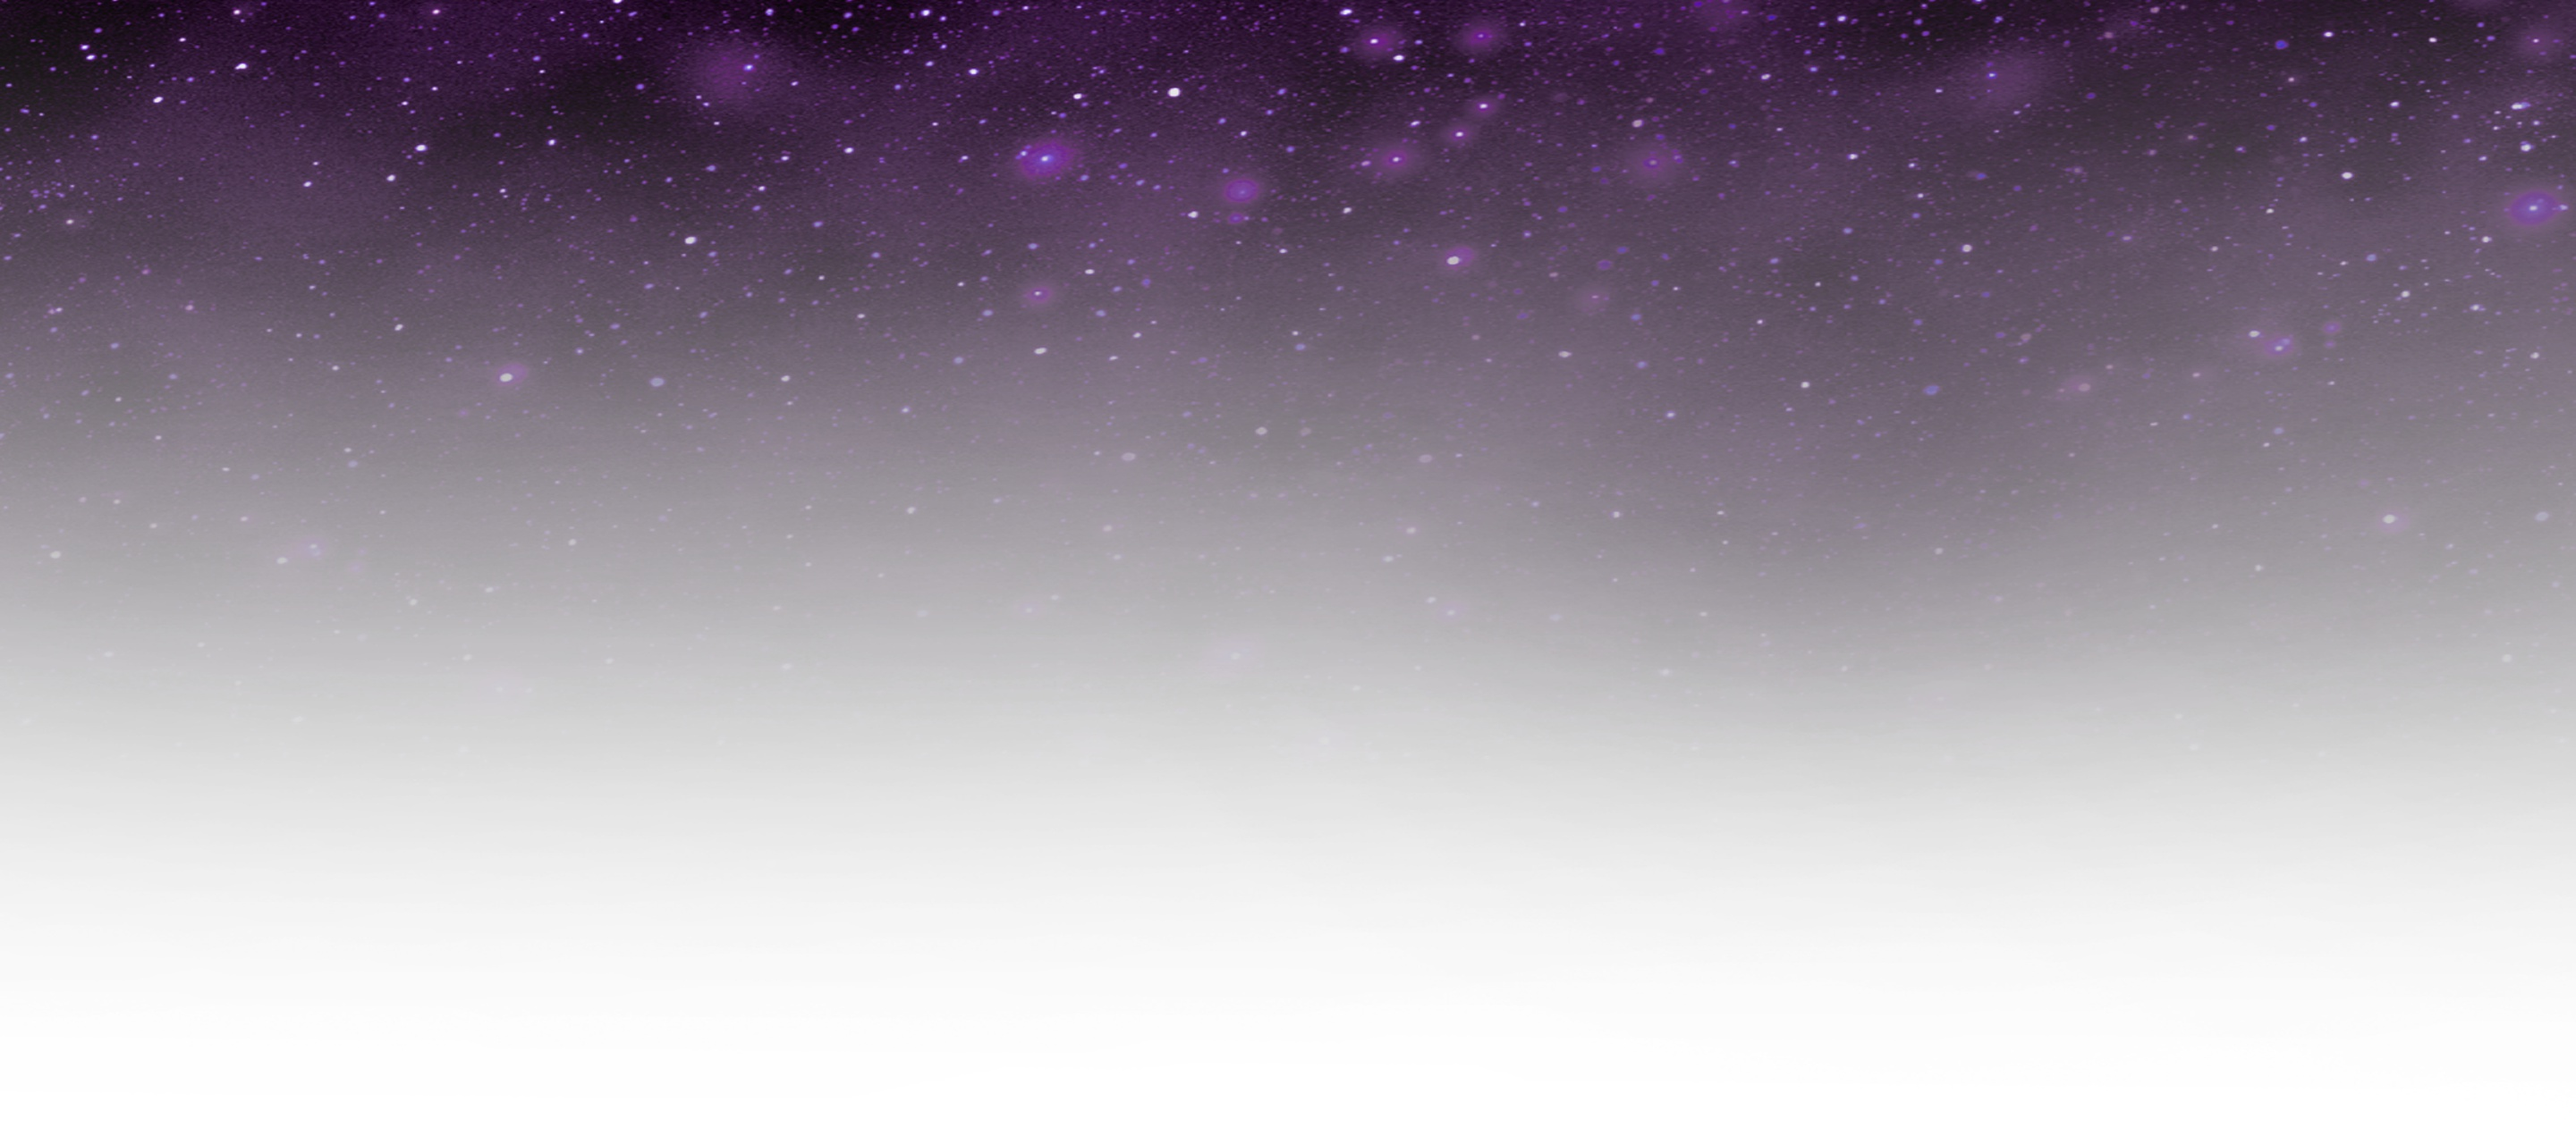
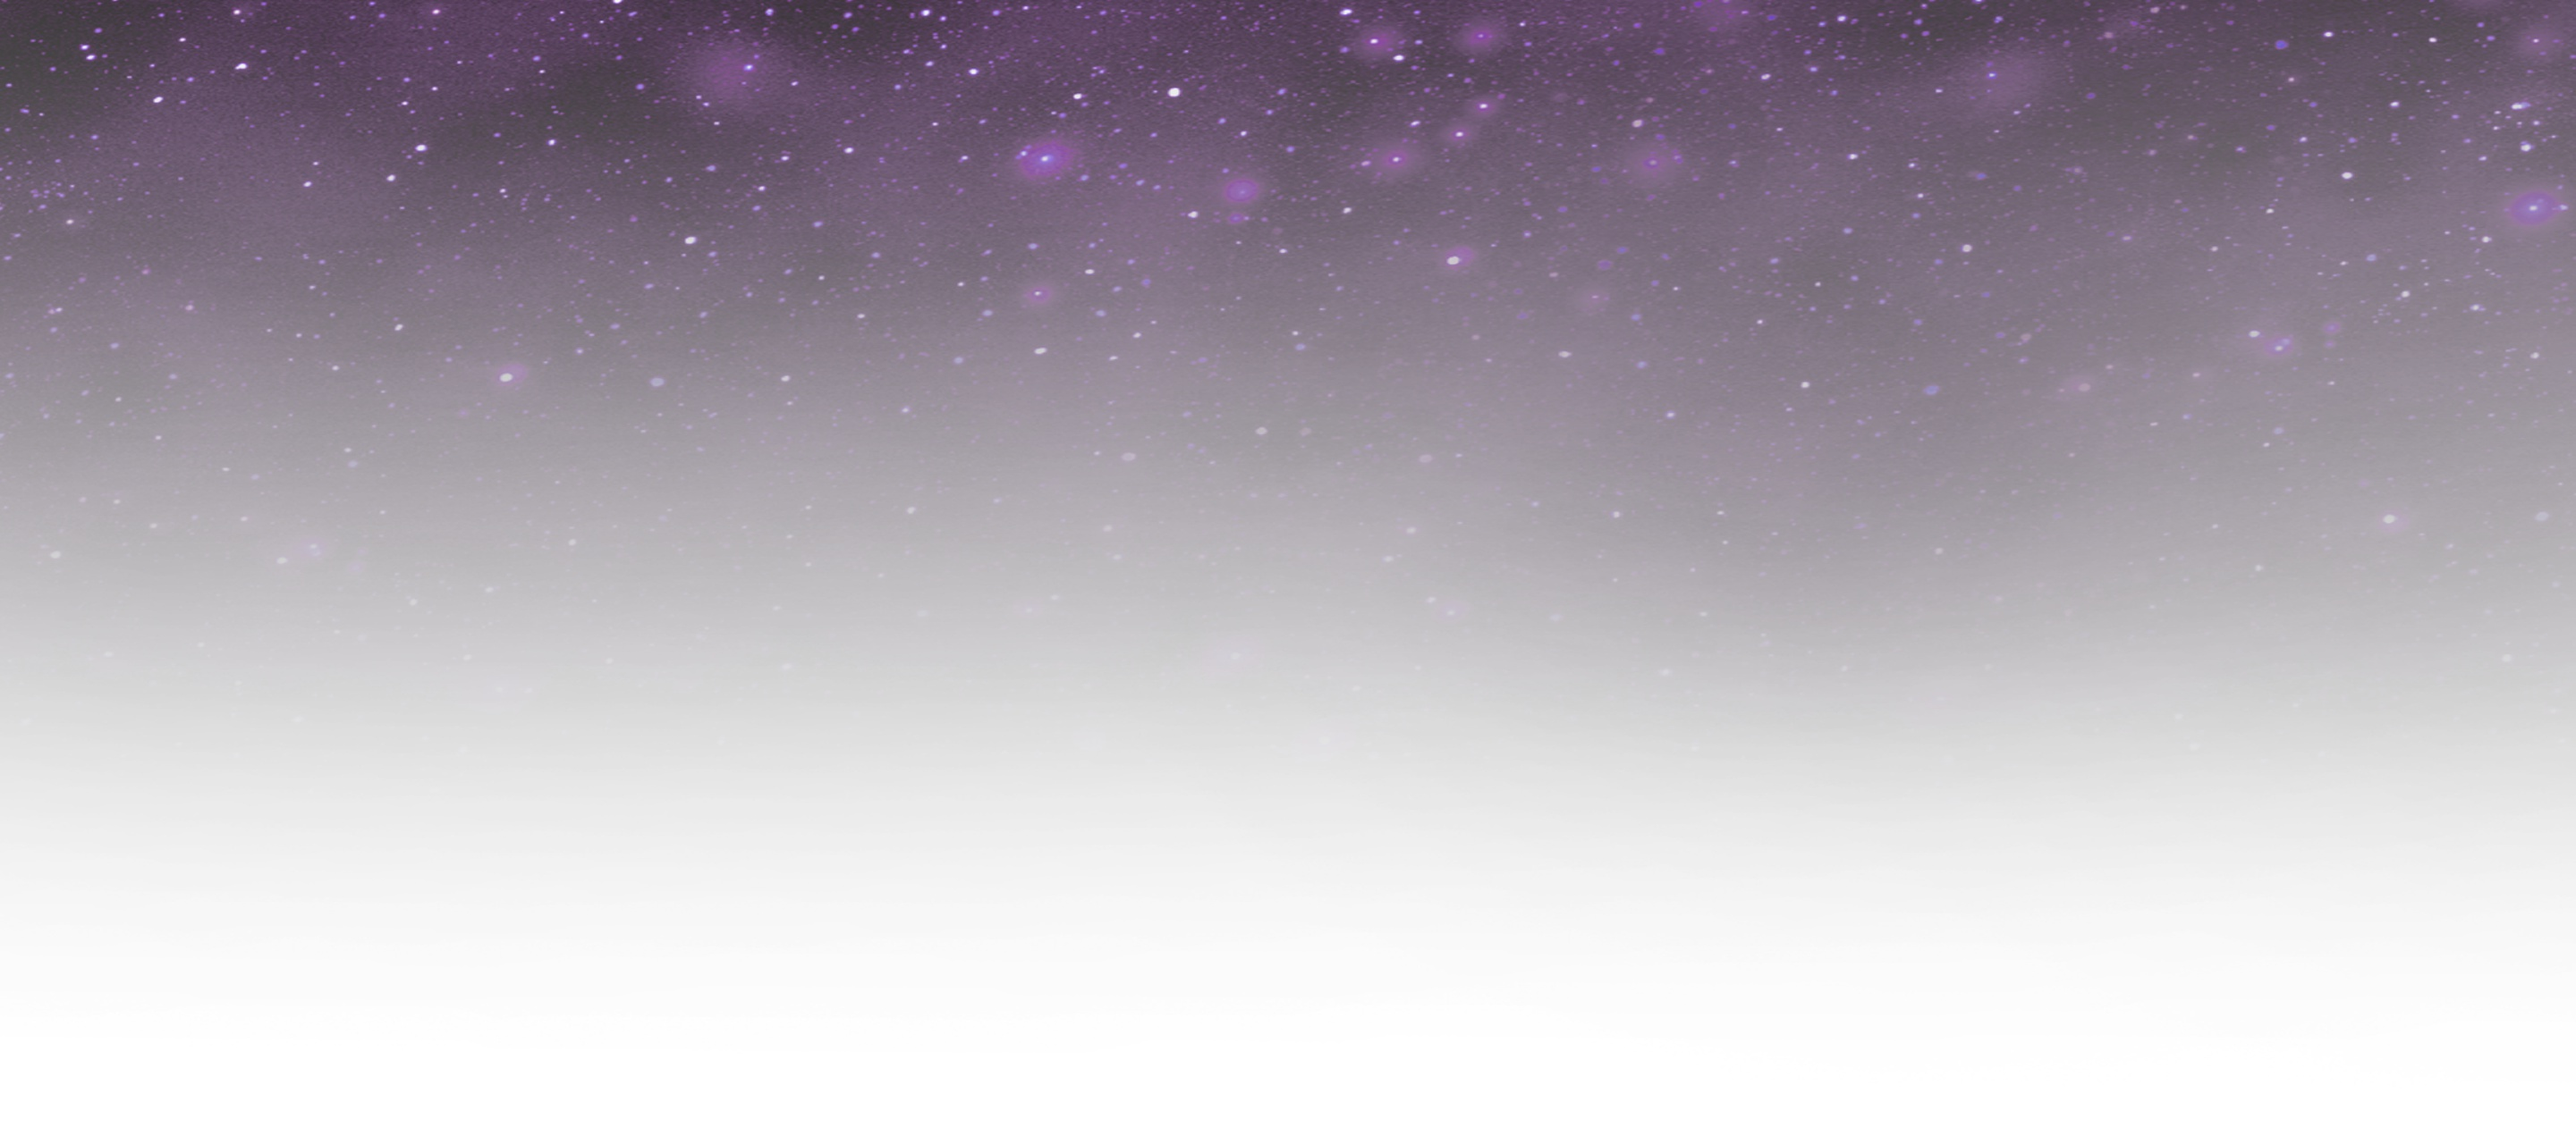
navbar

diff --git a/src/styles/global.css b/src/styles/global.css
@@ -16,8 +16,8 @@
 	--gray-999_40: hsla(var(--gray-999-basis), 0.4);
 	--gray-999: #ffffff;
 
-	--accent-light: #c561f6;
-	--accent-regular: #7611a6;
+	--accent-light: #a82fe4;
+	--accent-regular: #633976;
 	--accent-dark: #1c0056;
 	--accent-overlay: hsla(280, 89%, 67%, 0.33);
 	--accent-subtle-overlay: var(--accent-overlay);
@@ -89,8 +89,8 @@
 	--gray-999: #090b11;
 
 	--accent-light: #1c0056;
-	--accent-regular: #7611a6;
-	--accent-dark: #c561f6;
+	--accent-regular: #be87d8;
+	--accent-dark: #8226b0;
 	--accent-overlay: hsla(280, 89%, 67%, 0.33);
 	--accent-subtle-overlay: hsla(281, 81%, 36%, 0.33);
 	--accent-text-over: var(--gray-0);
